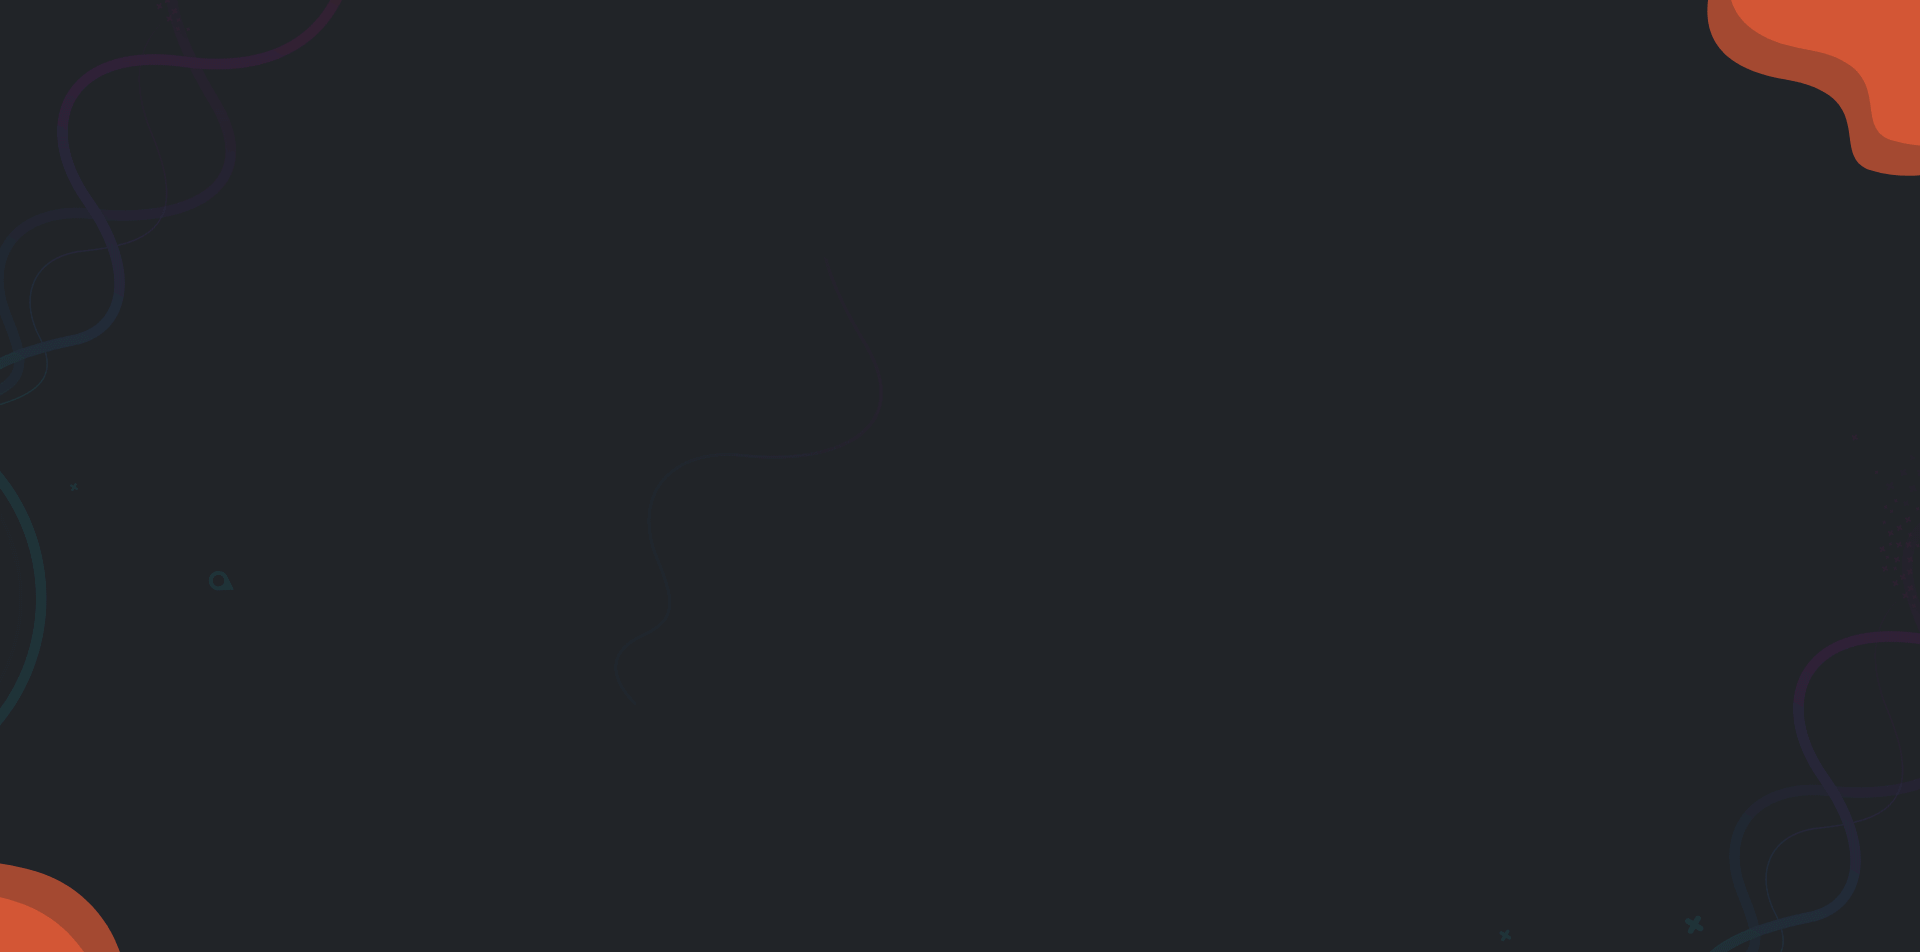
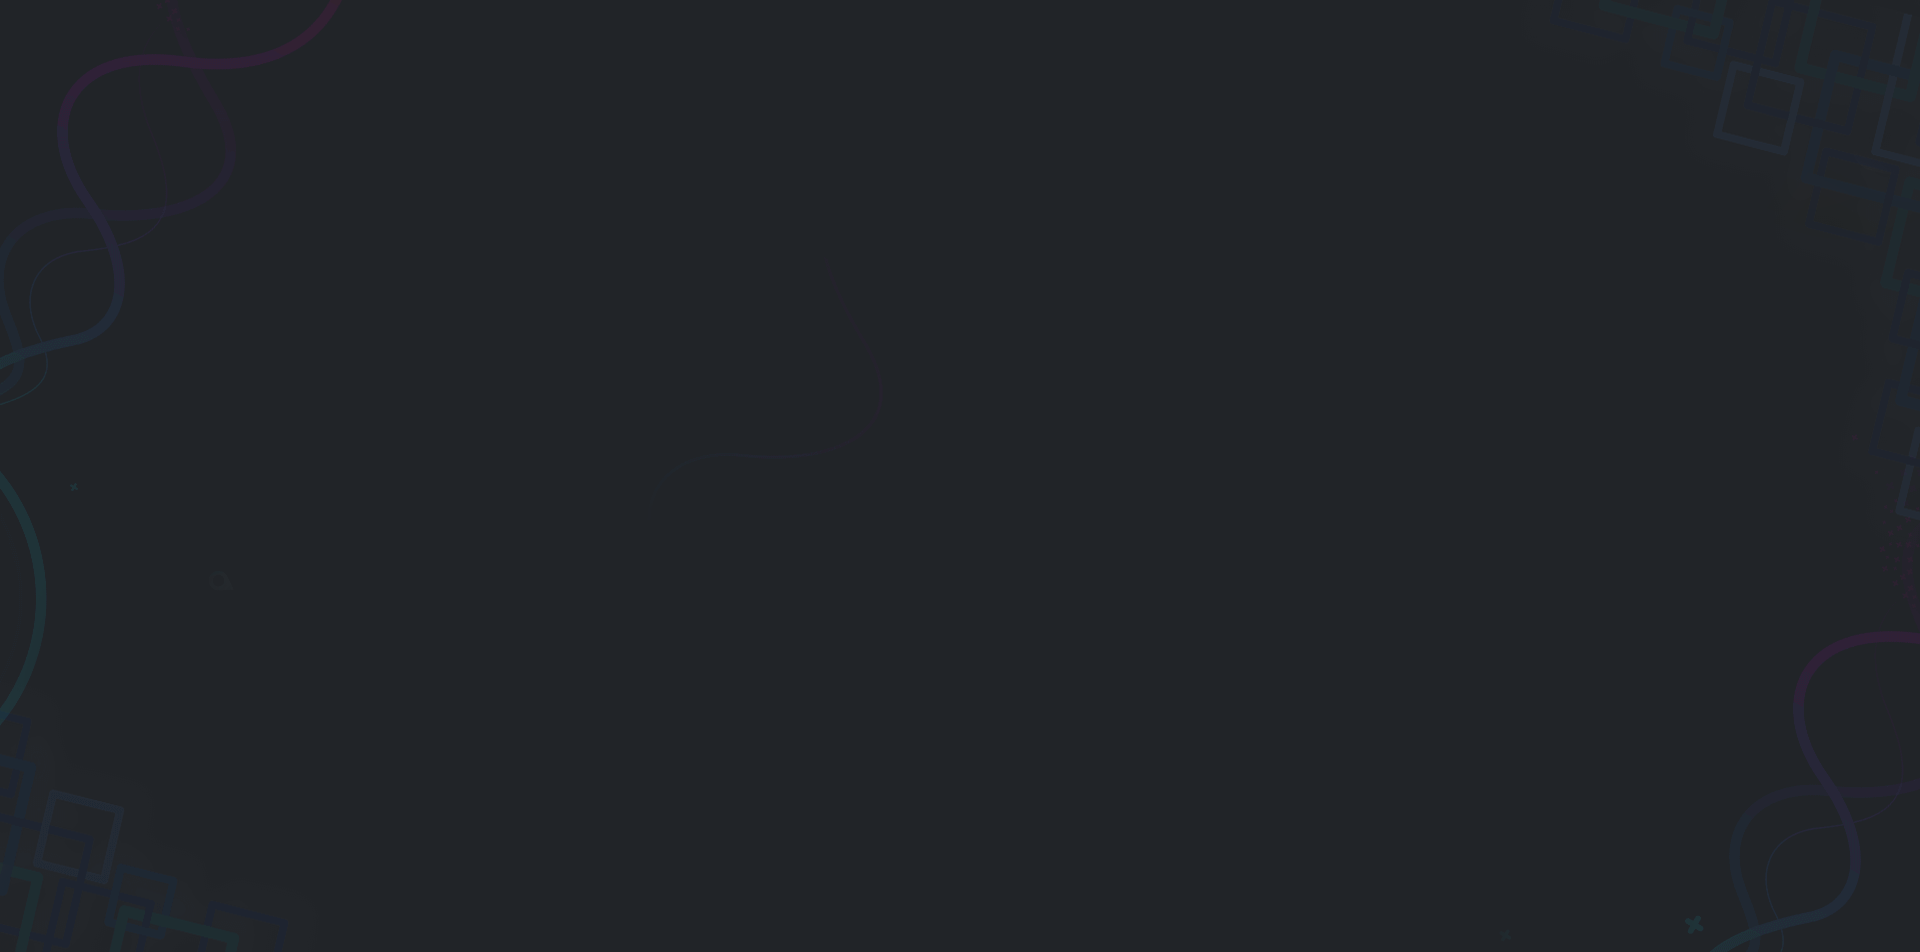
changed hero BG

Changed region(s): [[0.875, 0.0, 1.0, 0.1828], [0.0, 0.9139, 0.0625, 1.0]]

diff --git a/index.html b/index.html
@@ -173,7 +173,7 @@
 
     
     <section
-      class="bg-cover bg-no-repeat bg-center sm:h-full only-md:h-screen lg:min-h-screen flex justify-center items-center overflow-hidden bg-[url('../images/hero-bg-img.png')] bg-[#DAEEF1] dark:bg-[url('../images/hero-bg-img-dark.png')] dark:bg-dark_primary_bg dark:border-b dark:border-dark_accent1"
+      class="bg-cover bg-no-repeat bg-center sm:h-full only-md:h-screen lg:min-h-screen flex justify-center items-center overflow-hidden bg-[url('..home2-hero-bg-dark.png')] bg-[#DAEEF1] dark:bg-[url('../images/home2-hero-bg-dark.png')] dark:bg-dark_primary_bg dark:border-b dark:border-dark_accent1"
       id="home">
       <div
         class="container mx-auto flex sm:flex-col items-center justify-center lg:mt-[40px] only-md:mt-[40px] sm:pt-[100px] sm:pb-[70px]">
